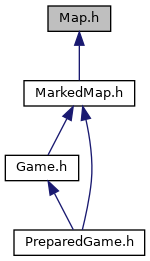
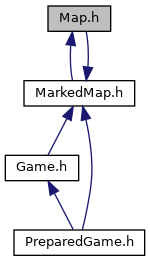
Update gh-pages to output generated at cc58662

Changed region(s): [[0.4267, 0.1226, 0.64, 0.3372]]

diff --git a/Map_8h_source.html b/Map_8h_source.html
@@ -76,54 +76,56 @@ $(function() {
 <div class="line"><a name="l00019"></a><span class="lineno">   19</span>&#160;<span class="preprocessor">#include &lt;fstream&gt;</span></div>
 <div class="line"><a name="l00020"></a><span class="lineno">   20</span>&#160;<span class="preprocessor">#include &lt;sstream&gt;</span></div>
 <div class="line"><a name="l00021"></a><span class="lineno">   21</span>&#160;<span class="preprocessor">#include &lt;exception&gt;</span></div>
-<div class="line"><a name="l00022"></a><span class="lineno">   22</span>&#160; </div>
-<div class="line"><a name="l00023"></a><span class="lineno"><a class="line" href="classMap.html">   23</a></span>&#160;<span class="keyword">class </span><a class="code" href="classMap.html">Map</a></div>
-<div class="line"><a name="l00024"></a><span class="lineno">   24</span>&#160;{</div>
-<div class="line"><a name="l00025"></a><span class="lineno">   25</span>&#160;    <span class="keyword">protected</span>:</div>
-<div class="line"><a name="l00030"></a><span class="lineno"><a class="line" href="classMap.html#a7fbb34f989fcf03bb5717073f882080a">   30</a></span>&#160;        std::vector&lt;std::vector&lt;int&gt;&gt; <a class="code" href="classMap.html#a7fbb34f989fcf03bb5717073f882080a">map</a>;</div>
-<div class="line"><a name="l00031"></a><span class="lineno">   31</span>&#160;        <span class="keywordtype">unsigned</span> <span class="keywordtype">int</span> longest_row_size;</div>
-<div class="line"><a name="l00032"></a><span class="lineno">   32</span>&#160;    <span class="keyword">public</span>:</div>
-<div class="line"><a name="l00038"></a><span class="lineno"><a class="line" href="classMap.html#a9f827218d2ff7742f7cd39d43653fcf0">   38</a></span>&#160;        std::vector&lt;std::pair&lt;int,int&gt;&gt; <a class="code" href="classMap.html#a9f827218d2ff7742f7cd39d43653fcf0">monsterPositions</a>;</div>
-<div class="line"><a name="l00039"></a><span class="lineno">   39</span>&#160;        std::pair&lt;int,int&gt; heroPosition;</div>
-<div class="line"><a name="l00040"></a><span class="lineno">   40</span>&#160; </div>
-<div class="line"><a name="l00041"></a><span class="lineno">   41</span>&#160;        <span class="keyword">const</span> std::pair&lt;int,int&gt; getHeroPosition(){<span class="keywordflow">return</span> heroPosition;};</div>
-<div class="line"><a name="l00042"></a><span class="lineno">   42</span>&#160;        <span class="keyword">const</span> std::vector&lt;std::pair&lt;int,int&gt;&gt; getMonsterPositions(<span class="keywordtype">char</span>){<span class="keywordflow">return</span> <a class="code" href="classMap.html#a9f827218d2ff7742f7cd39d43653fcf0">monsterPositions</a>;};</div>
-<div class="line"><a name="l00043"></a><span class="lineno">   43</span>&#160;        <span class="keyword">const</span> <span class="keywordtype">void</span> setHeroPosition(std::pair&lt;int,int&gt; pos){heroPosition=pos;};</div>
-<div class="line"><a name="l00044"></a><span class="lineno">   44</span>&#160; </div>
-<div class="line"><a name="l00045"></a><span class="lineno">   45</span>&#160;        <span class="keyword">enum</span> type </div>
-<div class="line"><a name="l00046"></a><span class="lineno">   46</span>&#160;        {</div>
-<div class="line"><a name="l00047"></a><span class="lineno">   47</span>&#160;            Free,       <span class="comment">/* 0 */</span></div>
-<div class="line"><a name="l00048"></a><span class="lineno">   48</span>&#160;            Wall,       <span class="comment">/* 1 */</span></div>
-<div class="line"><a name="l00049"></a><span class="lineno">   49</span>&#160;            <a class="code" href="classHero.html">Hero</a>,       <span class="comment">/* 2 */</span></div>
-<div class="line"><a name="l00050"></a><span class="lineno">   50</span>&#160;            <a class="code" href="classMonster.html">Monster</a>,    <span class="comment">/* 3 */</span></div>
-<div class="line"><a name="l00051"></a><span class="lineno">   51</span>&#160;            Monsters    <span class="comment">/* 4 */</span></div>
-<div class="line"><a name="l00052"></a><span class="lineno">   52</span>&#160;        };</div>
-<div class="line"><a name="l00059"></a><span class="lineno">   59</span>&#160;        <a class="code" href="classMap.html#a0f5ad0fd4563497b4214038cbca8b582">Map</a>();</div>
-<div class="line"><a name="l00070"></a><span class="lineno">   70</span>&#160;        <a class="code" href="classMap.html#a0f5ad0fd4563497b4214038cbca8b582">Map</a>(std::string filename);</div>
-<div class="line"><a name="l00081"></a><span class="lineno">   81</span>&#160;        Map::type <a class="code" href="classMap.html#af3d2f71301bb5bdafcef6099a65ae7e0">get</a>(<span class="keywordtype">unsigned</span> <span class="keywordtype">int</span> x, <span class="keywordtype">unsigned</span> <span class="keywordtype">int</span> y) <span class="keyword">const</span>;</div>
-<div class="line"><a name="l00086"></a><span class="lineno">   86</span>&#160;        <span class="keywordtype">void</span> <a class="code" href="classMap.html#acb89ca324e81cf18799ffcbf96b7f679">drawMap</a>() <span class="keyword">const</span>;</div>
-<div class="line"><a name="l00095"></a><span class="lineno">   95</span>&#160;        <span class="keywordtype">void</span> <a class="code" href="classMap.html#a4c6f5a0f5146390c90960892f6c3e56c">setTile</a>(<span class="keywordtype">int</span>, <span class="keywordtype">int</span>, <span class="keywordtype">int</span>);</div>
-<div class="line"><a name="l00096"></a><span class="lineno">   96</span>&#160; </div>
-<div class="line"><a name="l00097"></a><span class="lineno"><a class="line" href="classMap_1_1WrongIndexException.html">   97</a></span>&#160;    <span class="keyword">class </span><a class="code" href="classMap_1_1WrongIndexException.html">WrongIndexException</a> : std::exception</div>
-<div class="line"><a name="l00098"></a><span class="lineno">   98</span>&#160;    {</div>
-<div class="line"><a name="l00099"></a><span class="lineno">   99</span>&#160;        <span class="keyword">public</span>:</div>
-<div class="line"><a name="l00104"></a><span class="lineno"><a class="line" href="classMap_1_1WrongIndexException.html#aeebaf6a2269de443f9ed95dba18a0410">  104</a></span>&#160;            <a class="code" href="classMap_1_1WrongIndexException.html#aeebaf6a2269de443f9ed95dba18a0410">WrongIndexException</a>(){}</div>
-<div class="line"><a name="l00105"></a><span class="lineno">  105</span>&#160;    };</div>
-<div class="line"><a name="l00106"></a><span class="lineno">  106</span>&#160;};</div>
-<div class="line"><a name="l00107"></a><span class="lineno">  107</span>&#160; </div>
-<div class="line"><a name="l00108"></a><span class="lineno">  108</span>&#160;<span class="preprocessor">#endif // MAP_HEADER</span></div>
+<div class="line"><a name="l00022"></a><span class="lineno">   22</span>&#160;<span class="comment">//Include loopok elkerülése miatt - ha kitörlöd rossz lesz a linker és a markedmapben hibákat észlel</span></div>
+<div class="line"><a name="l00023"></a><span class="lineno">   23</span>&#160;<span class="preprocessor">#include &quot;MarkedMap.h&quot;</span></div>
+<div class="line"><a name="l00024"></a><span class="lineno">   24</span>&#160; </div>
+<div class="line"><a name="l00025"></a><span class="lineno"><a class="line" href="classMap.html">   25</a></span>&#160;<span class="keyword">class </span><a class="code" href="classMap.html">Map</a></div>
+<div class="line"><a name="l00026"></a><span class="lineno">   26</span>&#160;{</div>
+<div class="line"><a name="l00027"></a><span class="lineno">   27</span>&#160;    <span class="keyword">protected</span>:</div>
+<div class="line"><a name="l00032"></a><span class="lineno"><a class="line" href="classMap.html#a7fbb34f989fcf03bb5717073f882080a">   32</a></span>&#160;        std::vector&lt;std::vector&lt;int&gt;&gt; <a class="code" href="classMap.html#a7fbb34f989fcf03bb5717073f882080a">map</a>;</div>
+<div class="line"><a name="l00033"></a><span class="lineno">   33</span>&#160;        <span class="keywordtype">unsigned</span> <span class="keywordtype">int</span> longest_row_size;</div>
+<div class="line"><a name="l00034"></a><span class="lineno">   34</span>&#160;    <span class="keyword">public</span>:</div>
+<div class="line"><a name="l00040"></a><span class="lineno"><a class="line" href="classMap.html#a9f827218d2ff7742f7cd39d43653fcf0">   40</a></span>&#160;        std::vector&lt;std::pair&lt;int,int&gt;&gt; <a class="code" href="classMap.html#a9f827218d2ff7742f7cd39d43653fcf0">monsterPositions</a>;</div>
+<div class="line"><a name="l00041"></a><span class="lineno">   41</span>&#160;        std::pair&lt;int,int&gt; heroPosition;</div>
+<div class="line"><a name="l00042"></a><span class="lineno">   42</span>&#160; </div>
+<div class="line"><a name="l00043"></a><span class="lineno">   43</span>&#160;        <span class="keyword">const</span> std::pair&lt;int,int&gt; getHeroPosition(){<span class="keywordflow">return</span> heroPosition;};</div>
+<div class="line"><a name="l00044"></a><span class="lineno">   44</span>&#160;        <span class="keyword">const</span> std::vector&lt;std::pair&lt;int,int&gt;&gt; getMonsterPositions(<span class="keywordtype">char</span>){<span class="keywordflow">return</span> <a class="code" href="classMap.html#a9f827218d2ff7742f7cd39d43653fcf0">monsterPositions</a>;};</div>
+<div class="line"><a name="l00045"></a><span class="lineno">   45</span>&#160;        <span class="keyword">const</span> <span class="keywordtype">void</span> setHeroPosition(std::pair&lt;int,int&gt; pos){heroPosition=pos;};</div>
+<div class="line"><a name="l00046"></a><span class="lineno">   46</span>&#160; </div>
+<div class="line"><a name="l00047"></a><span class="lineno">   47</span>&#160;        <span class="keyword">enum</span> type </div>
+<div class="line"><a name="l00048"></a><span class="lineno">   48</span>&#160;        {</div>
+<div class="line"><a name="l00049"></a><span class="lineno">   49</span>&#160;            Free,       <span class="comment">/* 0 */</span></div>
+<div class="line"><a name="l00050"></a><span class="lineno">   50</span>&#160;            Wall,       <span class="comment">/* 1 */</span></div>
+<div class="line"><a name="l00051"></a><span class="lineno">   51</span>&#160;            <a class="code" href="classHero.html">Hero</a>,       <span class="comment">/* 2 */</span></div>
+<div class="line"><a name="l00052"></a><span class="lineno">   52</span>&#160;            <a class="code" href="classMonster.html">Monster</a>,    <span class="comment">/* 3 */</span></div>
+<div class="line"><a name="l00053"></a><span class="lineno">   53</span>&#160;            Monsters    <span class="comment">/* 4 */</span></div>
+<div class="line"><a name="l00054"></a><span class="lineno">   54</span>&#160;        };</div>
+<div class="line"><a name="l00061"></a><span class="lineno">   61</span>&#160;        <a class="code" href="classMap.html#a0f5ad0fd4563497b4214038cbca8b582">Map</a>();</div>
+<div class="line"><a name="l00072"></a><span class="lineno">   72</span>&#160;        <a class="code" href="classMap.html#a0f5ad0fd4563497b4214038cbca8b582">Map</a>(std::string filename);</div>
+<div class="line"><a name="l00083"></a><span class="lineno">   83</span>&#160;        Map::type <a class="code" href="classMap.html#af3d2f71301bb5bdafcef6099a65ae7e0">get</a>(<span class="keywordtype">unsigned</span> <span class="keywordtype">int</span> x, <span class="keywordtype">unsigned</span> <span class="keywordtype">int</span> y) <span class="keyword">const</span>;</div>
+<div class="line"><a name="l00088"></a><span class="lineno">   88</span>&#160;        <span class="keywordtype">void</span> <a class="code" href="classMap.html#acb89ca324e81cf18799ffcbf96b7f679">drawMap</a>() <span class="keyword">const</span>;</div>
+<div class="line"><a name="l00097"></a><span class="lineno">   97</span>&#160;        <span class="keywordtype">void</span> <a class="code" href="classMap.html#a4c6f5a0f5146390c90960892f6c3e56c">setTile</a>(<span class="keywordtype">int</span>, <span class="keywordtype">int</span>, <span class="keywordtype">int</span>);</div>
+<div class="line"><a name="l00098"></a><span class="lineno">   98</span>&#160; </div>
+<div class="line"><a name="l00099"></a><span class="lineno"><a class="line" href="classMap_1_1WrongIndexException.html">   99</a></span>&#160;    <span class="keyword">class </span><a class="code" href="classMap_1_1WrongIndexException.html">WrongIndexException</a> : std::exception</div>
+<div class="line"><a name="l00100"></a><span class="lineno">  100</span>&#160;    {</div>
+<div class="line"><a name="l00101"></a><span class="lineno">  101</span>&#160;        <span class="keyword">public</span>:</div>
+<div class="line"><a name="l00106"></a><span class="lineno"><a class="line" href="classMap_1_1WrongIndexException.html#aeebaf6a2269de443f9ed95dba18a0410">  106</a></span>&#160;            <a class="code" href="classMap_1_1WrongIndexException.html#aeebaf6a2269de443f9ed95dba18a0410">WrongIndexException</a>(){}</div>
+<div class="line"><a name="l00107"></a><span class="lineno">  107</span>&#160;    };</div>
+<div class="line"><a name="l00108"></a><span class="lineno">  108</span>&#160;};</div>
+<div class="line"><a name="l00109"></a><span class="lineno">  109</span>&#160; </div>
+<div class="line"><a name="l00110"></a><span class="lineno">  110</span>&#160;<span class="preprocessor">#endif // MAP_HEADER</span></div>
 </div><!-- fragment --></div><!-- contents -->
 <div class="ttc" id="aclassMap_html_af3d2f71301bb5bdafcef6099a65ae7e0"><div class="ttname"><a href="classMap.html#af3d2f71301bb5bdafcef6099a65ae7e0">Map::get</a></div><div class="ttdeci">Map::type get(unsigned int x, unsigned int y) const</div><div class="ttdoc">Gives back the type of terrain based on coordinates.</div><div class="ttdef"><b>Definition:</b> Map.cpp:7</div></div>
 <div class="ttc" id="aclassHero_html"><div class="ttname"><a href="classHero.html">Hero</a></div><div class="ttdef"><b>Definition:</b> Hero.h:20</div></div>
-<div class="ttc" id="aclassMap_html_a9f827218d2ff7742f7cd39d43653fcf0"><div class="ttname"><a href="classMap.html#a9f827218d2ff7742f7cd39d43653fcf0">Map::monsterPositions</a></div><div class="ttdeci">std::vector&lt; std::pair&lt; int, int &gt; &gt; monsterPositions</div><div class="ttdoc">Types that the map may contain.</div><div class="ttdef"><b>Definition:</b> Map.h:38</div></div>
+<div class="ttc" id="aclassMap_html_a9f827218d2ff7742f7cd39d43653fcf0"><div class="ttname"><a href="classMap.html#a9f827218d2ff7742f7cd39d43653fcf0">Map::monsterPositions</a></div><div class="ttdeci">std::vector&lt; std::pair&lt; int, int &gt; &gt; monsterPositions</div><div class="ttdoc">Types that the map may contain.</div><div class="ttdef"><b>Definition:</b> Map.h:40</div></div>
 <div class="ttc" id="aclassMonster_html"><div class="ttname"><a href="classMonster.html">Monster</a></div><div class="ttdef"><b>Definition:</b> Monster.h:19</div></div>
 <div class="ttc" id="aclassMap_html_acb89ca324e81cf18799ffcbf96b7f679"><div class="ttname"><a href="classMap.html#acb89ca324e81cf18799ffcbf96b7f679">Map::drawMap</a></div><div class="ttdeci">void drawMap() const</div><div class="ttdoc">Draws our map to the standard output.</div><div class="ttdef"><b>Definition:</b> Map.cpp:61</div></div>
 <div class="ttc" id="aclassMap_html_a0f5ad0fd4563497b4214038cbca8b582"><div class="ttname"><a href="classMap.html#a0f5ad0fd4563497b4214038cbca8b582">Map::Map</a></div><div class="ttdeci">Map()</div><div class="ttdoc">Constructor for an empty map.</div><div class="ttdef"><b>Definition:</b> Map.cpp:26</div></div>
-<div class="ttc" id="aclassMap_html_a7fbb34f989fcf03bb5717073f882080a"><div class="ttname"><a href="classMap.html#a7fbb34f989fcf03bb5717073f882080a">Map::map</a></div><div class="ttdeci">std::vector&lt; std::vector&lt; int &gt; &gt; map</div><div class="ttdoc">Data structure that contains the map.</div><div class="ttdef"><b>Definition:</b> Map.h:30</div></div>
-<div class="ttc" id="aclassMap_html"><div class="ttname"><a href="classMap.html">Map</a></div><div class="ttdef"><b>Definition:</b> Map.h:23</div></div>
-<div class="ttc" id="aclassMap_1_1WrongIndexException_html_aeebaf6a2269de443f9ed95dba18a0410"><div class="ttname"><a href="classMap_1_1WrongIndexException.html#aeebaf6a2269de443f9ed95dba18a0410">Map::WrongIndexException::WrongIndexException</a></div><div class="ttdeci">WrongIndexException()</div><div class="ttdoc">Prevents out of bound indexing.</div><div class="ttdef"><b>Definition:</b> Map.h:104</div></div>
+<div class="ttc" id="aclassMap_html_a7fbb34f989fcf03bb5717073f882080a"><div class="ttname"><a href="classMap.html#a7fbb34f989fcf03bb5717073f882080a">Map::map</a></div><div class="ttdeci">std::vector&lt; std::vector&lt; int &gt; &gt; map</div><div class="ttdoc">Data structure that contains the map.</div><div class="ttdef"><b>Definition:</b> Map.h:32</div></div>
+<div class="ttc" id="aclassMap_html"><div class="ttname"><a href="classMap.html">Map</a></div><div class="ttdef"><b>Definition:</b> Map.h:25</div></div>
+<div class="ttc" id="aclassMap_1_1WrongIndexException_html_aeebaf6a2269de443f9ed95dba18a0410"><div class="ttname"><a href="classMap_1_1WrongIndexException.html#aeebaf6a2269de443f9ed95dba18a0410">Map::WrongIndexException::WrongIndexException</a></div><div class="ttdeci">WrongIndexException()</div><div class="ttdoc">Prevents out of bound indexing.</div><div class="ttdef"><b>Definition:</b> Map.h:106</div></div>
 <div class="ttc" id="aclassMap_html_a4c6f5a0f5146390c90960892f6c3e56c"><div class="ttname"><a href="classMap.html#a4c6f5a0f5146390c90960892f6c3e56c">Map::setTile</a></div><div class="ttdeci">void setTile(int, int, int)</div><div class="ttdoc">Sets the type of a certain tile.</div><div class="ttdef"><b>Definition:</b> Map.cpp:120</div></div>
-<div class="ttc" id="aclassMap_1_1WrongIndexException_html"><div class="ttname"><a href="classMap_1_1WrongIndexException.html">Map::WrongIndexException</a></div><div class="ttdef"><b>Definition:</b> Map.h:97</div></div>
+<div class="ttc" id="aclassMap_1_1WrongIndexException_html"><div class="ttname"><a href="classMap_1_1WrongIndexException.html">Map::WrongIndexException</a></div><div class="ttdef"><b>Definition:</b> Map.h:99</div></div>
 <!-- start footer part -->
 <hr class="footer"/><address class="footer"><small>
 Generated by &#160;<a href="http://www.doxygen.org/index.html">

diff --git a/MarkedMap_8h_source.html b/MarkedMap_8h_source.html
@@ -70,9 +70,9 @@ $(function() {
 <div class="fragment"><div class="line"><a name="l00001"></a><span class="lineno">    1</span>&#160; </div>
 <div class="line"><a name="l00012"></a><span class="lineno">   12</span>&#160;<span class="preprocessor">#ifndef MARKEDMAP_HEADER</span></div>
 <div class="line"><a name="l00013"></a><span class="lineno">   13</span>&#160;<span class="preprocessor">#define MARKEDMAP_HEADER</span></div>
-<div class="line"><a name="l00014"></a><span class="lineno">   14</span>&#160; </div>
-<div class="line"><a name="l00015"></a><span class="lineno">   15</span>&#160;<span class="preprocessor">#include &quot;<a class="code" href="Map_8h.html">Map.h</a>&quot;</span></div>
-<div class="line"><a name="l00016"></a><span class="lineno">   16</span>&#160;<span class="preprocessor">#include &lt;string&gt;</span></div>
+<div class="line"><a name="l00014"></a><span class="lineno">   14</span>&#160;<span class="preprocessor">#include &lt;string&gt;</span></div>
+<div class="line"><a name="l00015"></a><span class="lineno">   15</span>&#160; </div>
+<div class="line"><a name="l00016"></a><span class="lineno">   16</span>&#160;<span class="preprocessor">#include &quot;<a class="code" href="Map_8h.html">Map.h</a>&quot;</span></div>
 <div class="line"><a name="l00017"></a><span class="lineno">   17</span>&#160; </div>
 <div class="line"><a name="l00018"></a><span class="lineno"><a class="line" href="classMarkedMap.html">   18</a></span>&#160;<span class="keyword">class </span><a class="code" href="classMarkedMap.html">MarkedMap</a> : <span class="keyword">public</span> <a class="code" href="classMap.html">Map</a></div>
 <div class="line"><a name="l00019"></a><span class="lineno">   19</span>&#160;{</div>
@@ -81,16 +81,16 @@ $(function() {
 <div class="line"><a name="l00022"></a><span class="lineno">   22</span>&#160;    std::vector&lt;std::pair&lt;int,int&gt;&gt; monsterPositions;</div>
 <div class="line"><a name="l00023"></a><span class="lineno">   23</span>&#160;    std::pair&lt;int,int&gt; heroPosition;</div>
 <div class="line"><a name="l00024"></a><span class="lineno">   24</span>&#160;<span class="keyword">public</span>:</div>
-<div class="line"><a name="l00025"></a><span class="lineno">   25</span>&#160;    <span class="comment">//Constructors, destructor</span></div>
-<div class="line"><a name="l00026"></a><span class="lineno">   26</span>&#160;    <a class="code" href="classMarkedMap.html">MarkedMap</a>(std::string);</div>
-<div class="line"><a name="l00027"></a><span class="lineno">   27</span>&#160;    ~<a class="code" href="classMarkedMap.html">MarkedMap</a>();</div>
-<div class="line"><a name="l00028"></a><span class="lineno">   28</span>&#160; </div>
-<div class="line"><a name="l00029"></a><span class="lineno">   29</span>&#160;};</div>
-<div class="line"><a name="l00030"></a><span class="lineno">   30</span>&#160;<span class="preprocessor">#endif</span></div>
+<div class="line"><a name="l00025"></a><span class="lineno">   25</span>&#160;    <a class="code" href="classMarkedMap.html">MarkedMap</a>(std::string, <a class="code" href="classHero.html">Hero</a>*, <a class="code" href="classMonster.html">Monster</a>*, <a class="code" href="classMonster.html">Monster</a>*, <a class="code" href="classMonster.html">Monster</a>*);</div>
+<div class="line"><a name="l00026"></a><span class="lineno">   26</span>&#160;    ~<a class="code" href="classMarkedMap.html">MarkedMap</a>();</div>
+<div class="line"><a name="l00027"></a><span class="lineno">   27</span>&#160;};</div>
+<div class="line"><a name="l00028"></a><span class="lineno">   28</span>&#160;<span class="preprocessor">#endif</span></div>
 </div><!-- fragment --></div><!-- contents -->
 <div class="ttc" id="aMap_8h_html"><div class="ttname"><a href="Map_8h.html">Map.h</a></div><div class="ttdoc">Map class.</div></div>
+<div class="ttc" id="aclassHero_html"><div class="ttname"><a href="classHero.html">Hero</a></div><div class="ttdef"><b>Definition:</b> Hero.h:20</div></div>
+<div class="ttc" id="aclassMonster_html"><div class="ttname"><a href="classMonster.html">Monster</a></div><div class="ttdef"><b>Definition:</b> Monster.h:19</div></div>
 <div class="ttc" id="aclassMarkedMap_html"><div class="ttname"><a href="classMarkedMap.html">MarkedMap</a></div><div class="ttdef"><b>Definition:</b> MarkedMap.h:18</div></div>
-<div class="ttc" id="aclassMap_html"><div class="ttname"><a href="classMap.html">Map</a></div><div class="ttdef"><b>Definition:</b> Map.h:23</div></div>
+<div class="ttc" id="aclassMap_html"><div class="ttname"><a href="classMap.html">Map</a></div><div class="ttdef"><b>Definition:</b> Map.h:25</div></div>
 <!-- start footer part -->
 <hr class="footer"/><address class="footer"><small>
 Generated by &#160;<a href="http://www.doxygen.org/index.html">

diff --git a/PreparedGame_8h.html b/PreparedGame_8h.html
@@ -81,23 +81,23 @@ Include dependency graph for PreparedGame.h:</div>
 <div class="dyncontent">
 <div class="center"><img src="PreparedGame_8h__incl.png" border="0" usemap="#PreparedGame_8h" alt=""/></div>
 <map name="PreparedGame_8h" id="PreparedGame_8h">
-<area shape="rect" title="PreparedGame class." alt="" coords="227,5,358,32"/>
-<area shape="rect" href="Game_8h.html" title="Game class." alt="" coords="293,80,367,107"/>
-<area shape="rect" title=" " alt="" coords="105,304,163,331"/>
-<area shape="rect" href="MarkedMap_8h_source.html" title=" " alt="" coords="181,155,292,181"/>
-<area shape="rect" href="JSON_8h.html" title=" " alt="" coords="645,155,711,181"/>
-<area shape="rect" title=" " alt="" coords="336,304,399,331"/>
-<area shape="rect" title=" " alt="" coords="469,304,543,331"/>
-<area shape="rect" title=" " alt="" coords="569,304,643,331"/>
-<area shape="rect" title=" " alt="" coords="668,304,755,331"/>
-<area shape="rect" title=" " alt="" coords="1141,229,1183,256"/>
-<area shape="rect" href="Hero_8h.html" title="Hero class." alt="" coords="40,155,105,181"/>
-<area shape="rect" href="Monster_8h.html" title="Monster class." alt="" coords="91,229,177,256"/>
-<area shape="rect" href="Map_8h.html" title="Map class." alt="" coords="405,229,468,256"/>
-<area shape="rect" title=" " alt="" coords="746,229,797,256"/>
-<area shape="rect" title=" " alt="" coords="821,229,868,256"/>
-<area shape="rect" title=" " alt="" coords="893,229,973,256"/>
-<area shape="rect" title=" " alt="" coords="997,229,1065,256"/>
+<area shape="rect" title="PreparedGame class." alt="" coords="264,5,395,32"/>
+<area shape="rect" href="Game_8h.html" title="Game class." alt="" coords="330,80,403,107"/>
+<area shape="rect" title=" " alt="" coords="67,304,125,331"/>
+<area shape="rect" href="MarkedMap_8h_source.html" title=" " alt="" coords="218,155,329,181"/>
+<area shape="rect" href="JSON_8h.html" title=" " alt="" coords="607,155,673,181"/>
+<area shape="rect" title=" " alt="" coords="335,304,398,331"/>
+<area shape="rect" title=" " alt="" coords="431,304,505,331"/>
+<area shape="rect" title=" " alt="" coords="531,304,605,331"/>
+<area shape="rect" title=" " alt="" coords="630,304,717,331"/>
+<area shape="rect" title=" " alt="" coords="1103,229,1145,256"/>
+<area shape="rect" href="Hero_8h.html" title="Hero class." alt="" coords="63,155,129,181"/>
+<area shape="rect" href="Monster_8h.html" title="Monster class." alt="" coords="53,229,139,256"/>
+<area shape="rect" href="Map_8h.html" title="Map class." alt="" coords="266,229,329,256"/>
+<area shape="rect" title=" " alt="" coords="708,229,759,256"/>
+<area shape="rect" title=" " alt="" coords="783,229,830,256"/>
+<area shape="rect" title=" " alt="" coords="855,229,935,256"/>
+<area shape="rect" title=" " alt="" coords="959,229,1027,256"/>
 </map>
 </div>
 </div>

diff --git a/Game_8h.html b/Game_8h.html
@@ -87,22 +87,22 @@ Include dependency graph for Game.h:</div>
 <div class="dyncontent">
 <div class="center"><img src="Game_8h__incl.png" border="0" usemap="#Game_8h" alt=""/></div>
 <map name="Game_8h" id="Game_8h">
-<area shape="rect" title="Game class." alt="" coords="373,5,446,32"/>
-<area shape="rect" title=" " alt="" coords="96,229,155,256"/>
-<area shape="rect" title=" " alt="" coords="286,229,349,256"/>
-<area shape="rect" title=" " alt="" coords="419,229,493,256"/>
-<area shape="rect" title=" " alt="" coords="520,229,595,256"/>
-<area shape="rect" title=" " alt="" coords="909,229,995,256"/>
-<area shape="rect" title=" " alt="" coords="989,155,1032,181"/>
-<area shape="rect" href="Hero_8h.html" title="Hero class." alt="" coords="51,80,117,107"/>
-<area shape="rect" href="Monster_8h.html" title="Monster class." alt="" coords="41,155,127,181"/>
-<area shape="rect" href="MarkedMap_8h_source.html" title=" " alt="" coords="307,80,418,107"/>
-<area shape="rect" href="JSON_8h.html" title=" " alt="" coords="555,80,621,107"/>
-<area shape="rect" href="Map_8h.html" title="Map class." alt="" coords="355,155,418,181"/>
-<area shape="rect" title=" " alt="" coords="595,155,645,181"/>
-<area shape="rect" title=" " alt="" coords="670,155,717,181"/>
-<area shape="rect" title=" " alt="" coords="741,155,821,181"/>
-<area shape="rect" title=" " alt="" coords="846,155,914,181"/>
+<area shape="rect" title="Game class." alt="" coords="406,5,479,32"/>
+<area shape="rect" title=" " alt="" coords="137,229,196,256"/>
+<area shape="rect" title=" " alt="" coords="321,229,383,256"/>
+<area shape="rect" title=" " alt="" coords="435,229,509,256"/>
+<area shape="rect" title=" " alt="" coords="852,229,927,256"/>
+<area shape="rect" title=" " alt="" coords="951,229,1038,256"/>
+<area shape="rect" title=" " alt="" coords="1005,155,1048,181"/>
+<area shape="rect" href="Hero_8h.html" title="Hero class." alt="" coords="27,80,93,107"/>
+<area shape="rect" href="Monster_8h.html" title="Monster class." alt="" coords="57,155,143,181"/>
+<area shape="rect" href="MarkedMap_8h_source.html" title=" " alt="" coords="297,80,407,107"/>
+<area shape="rect" href="JSON_8h.html" title=" " alt="" coords="537,80,604,107"/>
+<area shape="rect" href="Map_8h.html" title="Map class." alt="" coords="321,155,383,181"/>
+<area shape="rect" title=" " alt="" coords="509,155,560,181"/>
+<area shape="rect" title=" " alt="" coords="585,155,631,181"/>
+<area shape="rect" title=" " alt="" coords="656,155,736,181"/>
+<area shape="rect" title=" " alt="" coords="761,155,829,181"/>
 </map>
 </div>
 </div><div class="textblock"><div class="dynheader">

diff --git a/Game_8h_source.html b/Game_8h_source.html
@@ -154,7 +154,7 @@ $(function() {
 <div class="ttc" id="aclassGame_html_add0231b4835c8368e43581c4abc01c4c"><div class="ttname"><a href="classGame.html#add0231b4835c8368e43581c4abc01c4c">Game::putMonster</a></div><div class="ttdeci">void putMonster(Monster *, int, int)</div><div class="ttdoc">Puts a monster to a given - and valid - coordinate on a map.</div><div class="ttdef"><b>Definition:</b> Game.cpp:69</div></div>
 <div class="ttc" id="aMonster_8h_html"><div class="ttname"><a href="Monster_8h.html">Monster.h</a></div><div class="ttdoc">Monster class.</div></div>
 <div class="ttc" id="aclassGame_1_1NotInitializedException_html_a940350c425f5d08a07fdeabc3814e552"><div class="ttname"><a href="classGame_1_1NotInitializedException.html#a940350c425f5d08a07fdeabc3814e552">Game::NotInitializedException::NotInitializedException</a></div><div class="ttdeci">NotInitializedException()</div><div class="ttdoc">If we have no map, or no hero on the map, we may not run the game.</div><div class="ttdef"><b>Definition:</b> Game.h:134</div></div>
-<div class="ttc" id="aclassMap_html"><div class="ttname"><a href="classMap.html">Map</a></div><div class="ttdef"><b>Definition:</b> Map.h:23</div></div>
+<div class="ttc" id="aclassMap_html"><div class="ttname"><a href="classMap.html">Map</a></div><div class="ttdef"><b>Definition:</b> Map.h:25</div></div>
 <div class="ttc" id="aclassGame_html"><div class="ttname"><a href="classGame.html">Game</a></div><div class="ttdef"><b>Definition:</b> Game.h:30</div></div>
 <div class="ttc" id="aclassGame_1_1OccupiedException_html_a2d06f1e94c0d870fa9297d690495c455"><div class="ttname"><a href="classGame_1_1OccupiedException.html#a2d06f1e94c0d870fa9297d690495c455">Game::OccupiedException::OccupiedException</a></div><div class="ttdeci">OccupiedException()</div><div class="ttdoc">We may not place a unit - monster(s) or hero - on an invalid tile.</div><div class="ttdef"><b>Definition:</b> Game.h:105</div></div>
 <div class="ttc" id="aHero_8h_html"><div class="ttname"><a href="Hero_8h.html">Hero.h</a></div><div class="ttdoc">Hero class.</div></div>

diff --git a/classMarkedMap-members.html b/classMarkedMap-members.html
@@ -80,7 +80,7 @@ $(function() {
   <tr><td class="entry"><a class="el" href="classMap.html#a0f5ad0fd4563497b4214038cbca8b582">Map</a>()</td><td class="entry"><a class="el" href="classMap.html">Map</a></td><td class="entry"></td></tr>
   <tr class="even"><td class="entry"><a class="el" href="classMap.html#ab124c12c6c9dec693aedb1a4b6384ecd">Map</a>(std::string filename)</td><td class="entry"><a class="el" href="classMap.html">Map</a></td><td class="entry"></td></tr>
   <tr><td class="entry"><a class="el" href="classMap.html#a7fbb34f989fcf03bb5717073f882080a">map</a></td><td class="entry"><a class="el" href="classMap.html">Map</a></td><td class="entry"><span class="mlabel">protected</span></td></tr>
-  <tr bgcolor="#f0f0f0" class="even"><td class="entry"><b>MarkedMap</b>(std::string) (defined in <a class="el" href="classMarkedMap.html">MarkedMap</a>)</td><td class="entry"><a class="el" href="classMarkedMap.html">MarkedMap</a></td><td class="entry"></td></tr>
+  <tr bgcolor="#f0f0f0" class="even"><td class="entry"><b>MarkedMap</b>(std::string, Hero *, Monster *, Monster *, Monster *) (defined in <a class="el" href="classMarkedMap.html">MarkedMap</a>)</td><td class="entry"><a class="el" href="classMarkedMap.html">MarkedMap</a></td><td class="entry"></td></tr>
   <tr bgcolor="#f0f0f0"><td class="entry"><b>Monster</b> enum value (defined in <a class="el" href="classMap.html">Map</a>)</td><td class="entry"><a class="el" href="classMap.html">Map</a></td><td class="entry"></td></tr>
   <tr bgcolor="#f0f0f0" class="even"><td class="entry"><b>Monsters</b> enum value (defined in <a class="el" href="classMap.html">Map</a>)</td><td class="entry"><a class="el" href="classMap.html">Map</a></td><td class="entry"></td></tr>
   <tr bgcolor="#f0f0f0"><td class="entry"><b>setHeroPosition</b>(std::pair&lt; int, int &gt; pos) (defined in <a class="el" href="classMap.html">Map</a>)</td><td class="entry"><a class="el" href="classMap.html">Map</a></td><td class="entry"><span class="mlabel">inline</span></td></tr>

diff --git a/classMarkedMap.html b/classMarkedMap.html
@@ -91,9 +91,9 @@ Collaboration diagram for MarkedMap:</div>
 <table class="memberdecls">
 <tr class="heading"><td colspan="2"><h2 class="groupheader"><a name="pub-methods"></a>
 Public Member Functions</h2></td></tr>
-<tr class="memitem:a1285ba9ffe0bb43d92331eb2cde25259"><td class="memItemLeft" align="right" valign="top"><a id="a1285ba9ffe0bb43d92331eb2cde25259"></a>
-&#160;</td><td class="memItemRight" valign="bottom"><b>MarkedMap</b> (std::string)</td></tr>
-<tr class="separator:a1285ba9ffe0bb43d92331eb2cde25259"><td class="memSeparator" colspan="2">&#160;</td></tr>
+<tr class="memitem:a80ebaf98b9179aee685858064d5d21ff"><td class="memItemLeft" align="right" valign="top"><a id="a80ebaf98b9179aee685858064d5d21ff"></a>
+&#160;</td><td class="memItemRight" valign="bottom"><b>MarkedMap</b> (std::string, <a class="el" href="classHero.html">Hero</a> *, <a class="el" href="classMonster.html">Monster</a> *, <a class="el" href="classMonster.html">Monster</a> *, <a class="el" href="classMonster.html">Monster</a> *)</td></tr>
+<tr class="separator:a80ebaf98b9179aee685858064d5d21ff"><td class="memSeparator" colspan="2">&#160;</td></tr>
 <tr class="inherit_header pub_methods_classMap"><td colspan="2" onclick="javascript:toggleInherit('pub_methods_classMap')"><img src="closed.png" alt="-"/>&#160;Public Member Functions inherited from <a class="el" href="classMap.html">Map</a></td></tr>
 <tr class="memitem:a958f2a0ea97f37cd48132a3bece47151 inherit pub_methods_classMap"><td class="memItemLeft" align="right" valign="top"><a id="a958f2a0ea97f37cd48132a3bece47151"></a>
 const std::pair&lt; int, int &gt;&#160;</td><td class="memItemRight" valign="bottom"><b>getHeroPosition</b> ()</td></tr>

diff --git a/Map_8h.html b/Map_8h.html
@@ -77,17 +77,19 @@ $(function() {
 <code>#include &lt;fstream&gt;</code><br />
 <code>#include &lt;sstream&gt;</code><br />
 <code>#include &lt;exception&gt;</code><br />
+<code>#include &quot;MarkedMap.h&quot;</code><br />
 </div><div class="textblock"><div class="dynheader">
 Include dependency graph for Map.h:</div>
 <div class="dyncontent">
 <div class="center"><img src="Map_8h__incl.png" border="0" usemap="#Map_8h" alt=""/></div>
 <map name="Map_8h" id="Map_8h">
-<area shape="rect" title="Map class." alt="" coords="181,5,243,32"/>
-<area shape="rect" title=" " alt="" coords="5,80,64,107"/>
-<area shape="rect" title=" " alt="" coords="89,80,151,107"/>
-<area shape="rect" title=" " alt="" coords="175,80,249,107"/>
-<area shape="rect" title=" " alt="" coords="273,80,348,107"/>
-<area shape="rect" title=" " alt="" coords="373,80,459,107"/>
+<area shape="rect" title="Map class." alt="" coords="219,5,281,32"/>
+<area shape="rect" title=" " alt="" coords="205,155,263,181"/>
+<area shape="rect" title=" " alt="" coords="28,80,91,107"/>
+<area shape="rect" title=" " alt="" coords="115,80,188,107"/>
+<area shape="rect" title=" " alt="" coords="213,80,287,107"/>
+<area shape="rect" title=" " alt="" coords="312,80,399,107"/>
+<area shape="rect" href="MarkedMap_8h_source.html" title=" " alt="" coords="423,80,533,107"/>
 </map>
 </div>
 </div><div class="textblock"><div class="dynheader">
